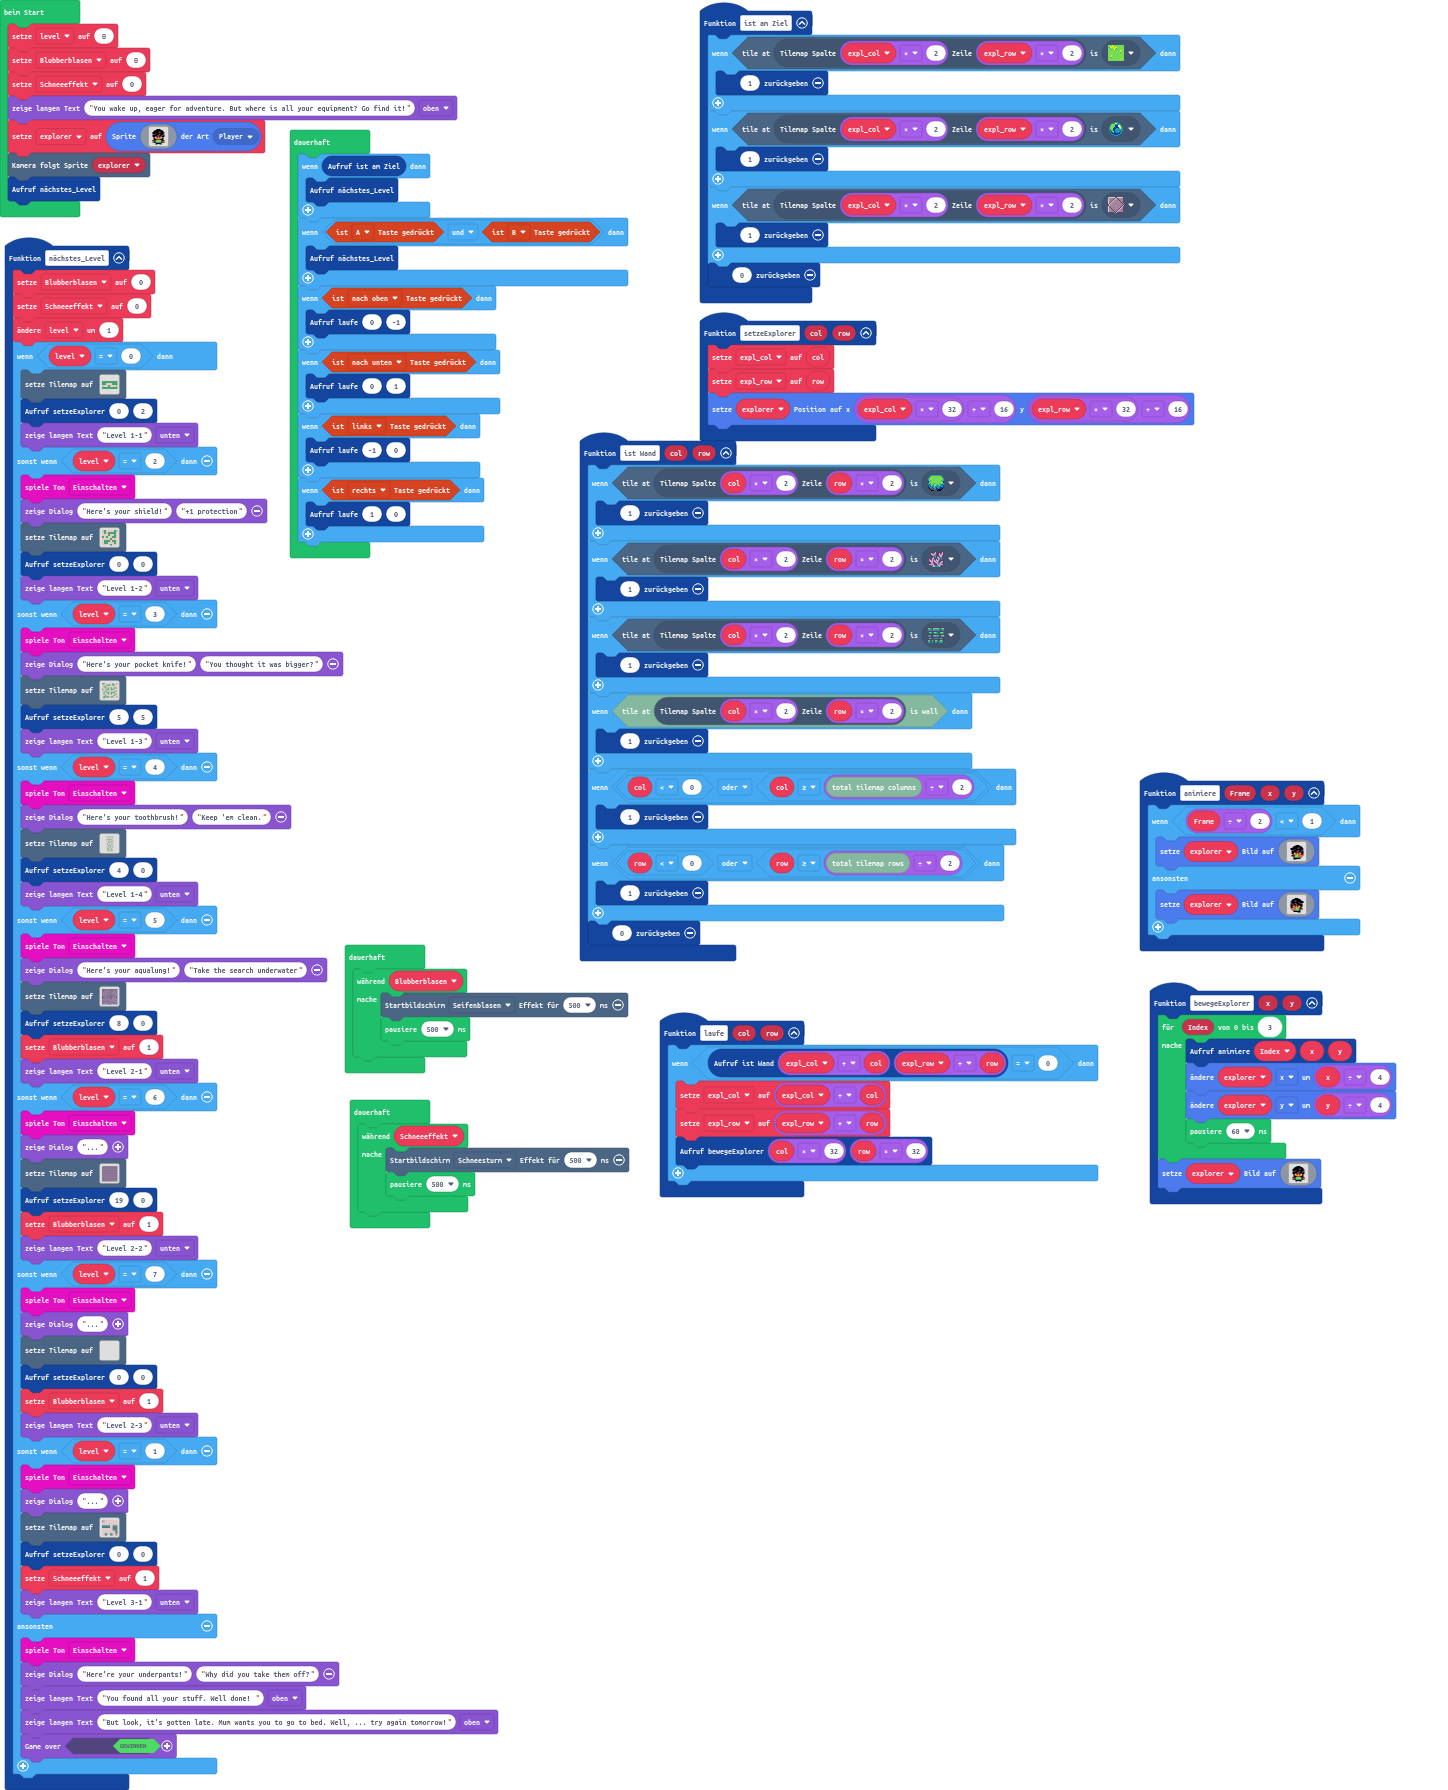
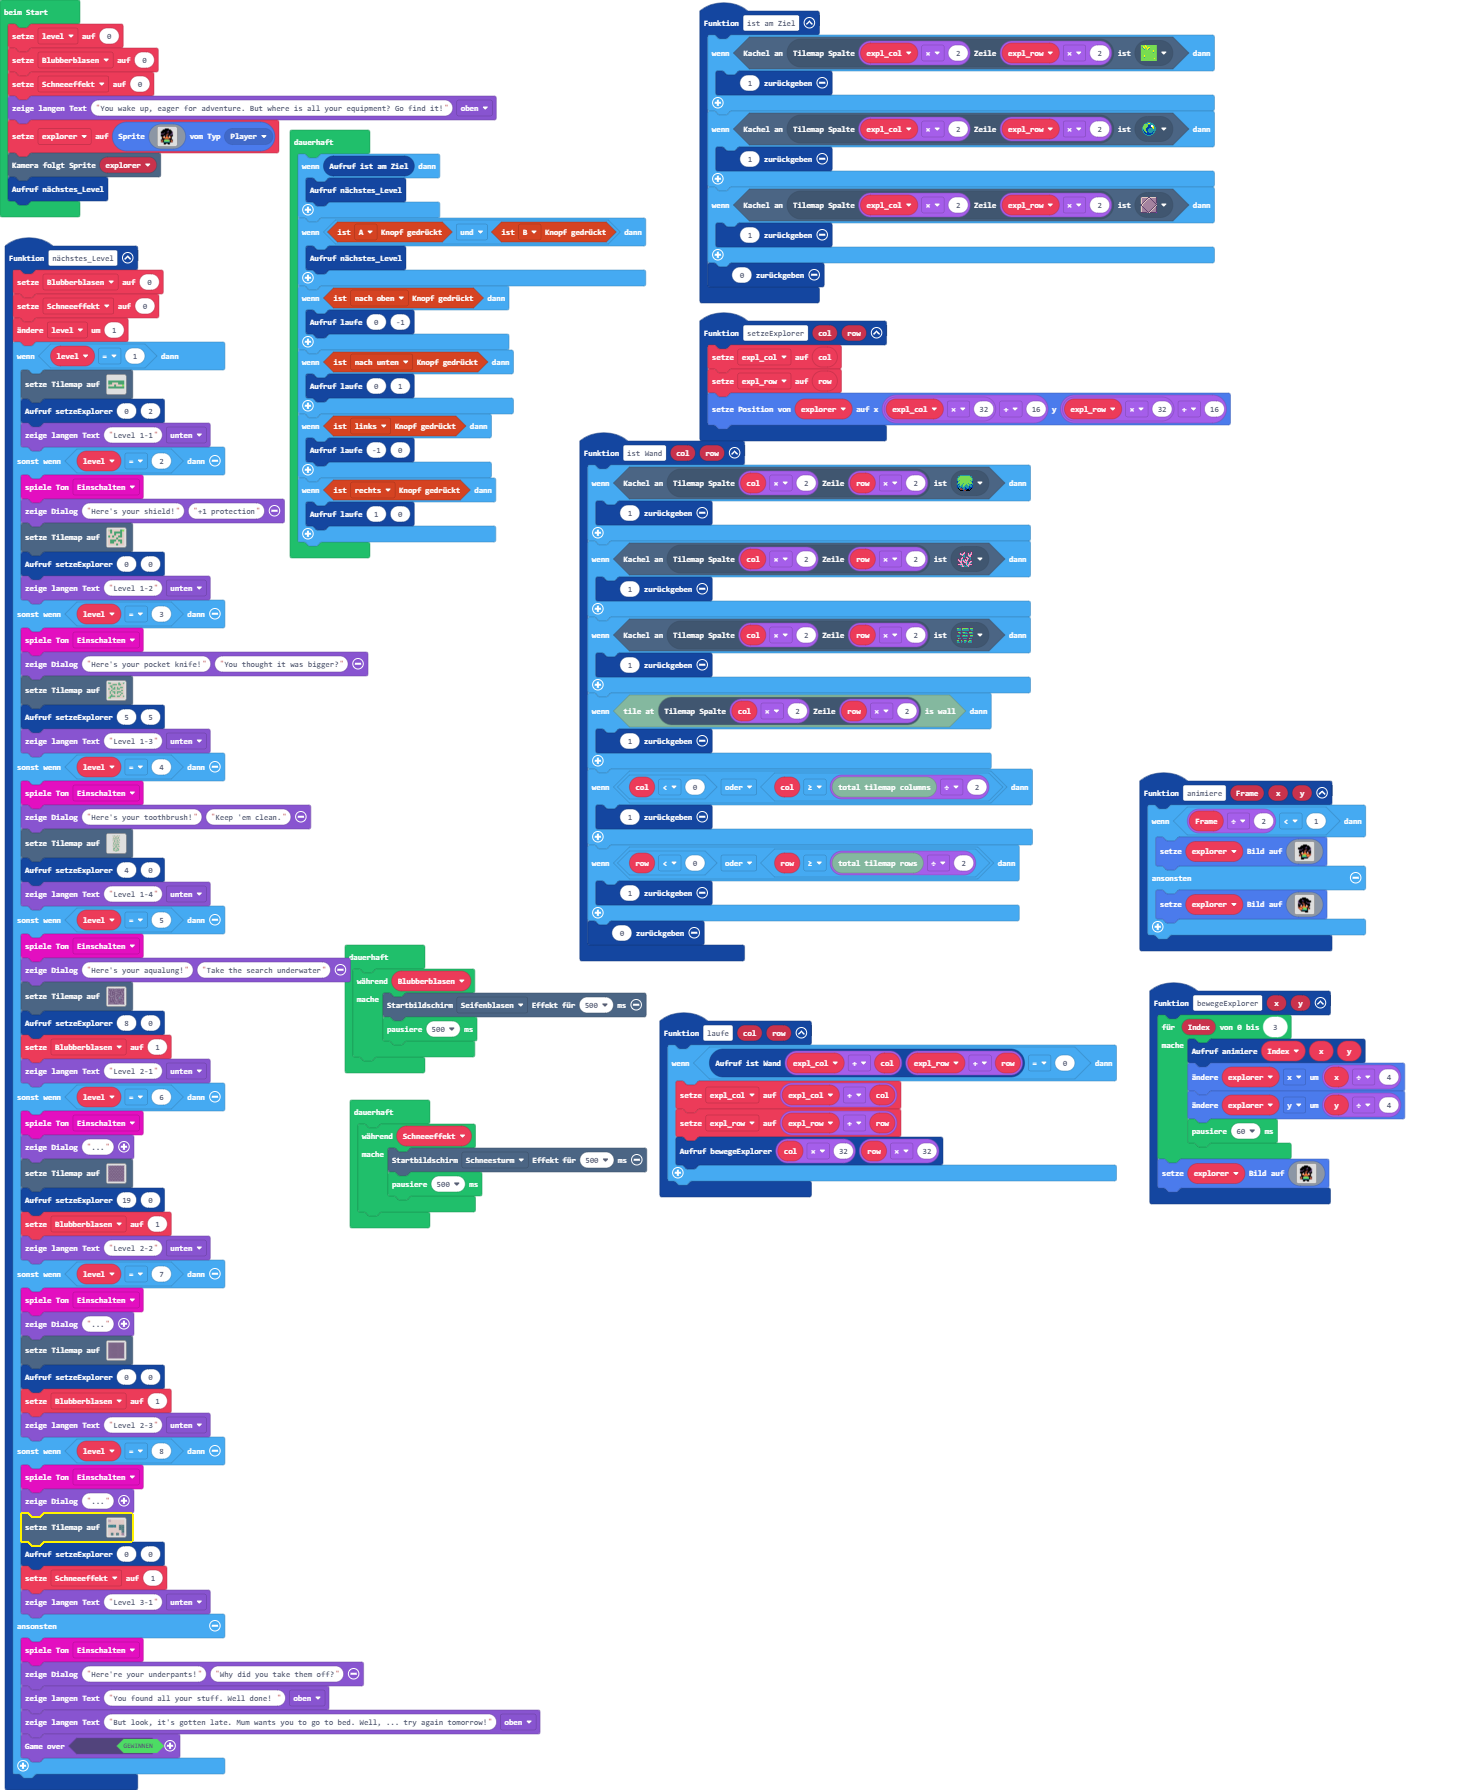
Completed level 2-3

diff --git a/tilemap.g.ts b/tilemap.g.ts
@@ -227,6 +227,78 @@ namespace myTiles {
 . . . . . . . . . . . . . . . . 
 . . . . . . . . . . . . . . . . 
 `, [myTiles.transparency16], TileScale.Sixteen);
+            case "Level3":
+            case "Level2":return tiles.createTilemap(hex`3200320002030101010101010101010101010101010101010101010101010101010101010101010101010101010101010101010101010405010101010101010101010101010101010101010101010101010101010101010101010101010101010101010101010101010101010101010101010101010101010101010101010101010101010101010101010101010101010101010101010101010101010101010101010101010101010101010101010101010101010101010101010101010101010101010101010101010101010101010101010101010101010101010101010101010101010101010101010101010101010101010101010101010101010101010101010101010101010101010101010101010101010101010101010101010101010101010101010101010101010101010101010101010101010101010101010101010101010101010101010101010101010101010101010101010101010101010101010101010101010101010101010101010101010101010101010101010101010101010101010101010101010101010101010101010101010101010101010101010101010101010101010101010101010101010101010101010101010101010101010101010101010101010101010101010101010101010101010101010101010101010101010101010101010101010101010101010101010101010101010101010101010101010101010101010101010101010101010101010101010101010101010101010101010101010101010101010101010101010101010101010101010101010101010101010101010101010101010101010101010101010101010101010101010101010101010101010101010101010101010101010101010101010101010101010101010101010101010101010101010101010101010101010101010101010101010101010101010101010101010101010101010101010101010101010101010101010101010101010101010101010101010101010101010101010101010101010101010101010101010101010101010101010101010101010101010101010101010101010101010101010101010101010101010101010101010101010101010101010101010101010101010101010101010101010101010101010101010101010101010101010101010101010101010101010101010101010101010101010101010101010101010101010101010101010101010101010101010101010101010101010101010101010101010101010101010101010101010101010101010101010101010101010101010101010101010101010101010101010101010101010101010101010101010101010101010101010101010101010101010101010101010101010101010101010101010101010101010101010101010101010101010101010101010101010101010101010101010101010101010101010101010101010101010101010101010101010101010101010101010101010101010101010101010101010101010101010101010101010101010101010101010101010101010101010101010101010101010101010101010101010101010101010101010101010101010101010101010101010101010101010101010101010101010101010101010101010101010101010101010101010101010101010101010101010101010101010101010101010101010101010101010101010101010101010101010101010101010101010101010101010101010101010101010101010101010101010101010101010101010101010101010101010101010101010101010101010101010101010101010101010101010101010101010101010101010101010101010101010101010101010101010101010101010101010101010101010101010101010101010101010101010101010101010101010101010101010101010101010101010101010101010101010101010101010101010101010101010101010101010101010101010101010101010101010101010101010101010101010101010101010101010101010101010101010101010101010101010101010101010101010101010101010101010101010101010101010101010101010101010101010101010101010101010101010101010101010101010101010101010101010101010101010101010101010101010101010101010101010101010101010101010101010101010101010101010101010101010101010101010101010101010101010101010101010101010101010101010101010101010101010101010101010101010101010101010101010101010101010101010101010101010101010101010101010101010101010101010101010101010101010101010101010101010101010101010101010101010101010101010101010101010101010101010101010101010101010101010101010101010101010101010101010101010101010101010101010101010101010101010101010101010101010101010101010101010101010101010101010101010101010101010101010101010101010101010101010101010101010101010101010101010101010101010101010101010101010101010101010101010101010101010101010101010101010101010101010101010101010101010101010101010101010101010101010101010101010101010101010101010606010101010101010101010101010101010101010101010101010101010101010101010101010101010101010101010101060601010101010101010101010101010101010101010101010101010101010101010101010101010101010101010101010101010101010101010101010101010101010101010101010101010101010101010101010101010101010101010101010101010101010101010101010101010101010101010101010101010101010101010101010101010101010101010101010101010101010101010101010101010101010101010101010101010101010101010101010101010101010101010101010101010101010101010101010101010101010101010101010101010101010101010101010101010101010101010101010101010101010101010101010101010101010101010101010101010101010101010101010101010101010101010101010101010101010101010101010101010101010101010101010101010101010101010101010101010101010101010101010101010101010101010101010101010101010101010101010101010101010101010101010101010101010101010101010101010101010101010101010101010101010101010101010101010101010101010101010101010101010101010101010101010101010101010101010101010101010101010101010101010101010101010101010101010101010101010101010101010101010101010101010101010101010101010101`, img`
+..................................................
+..................................................
+..................................................
+..................................................
+..................................................
+..................................................
+..................................................
+..................................................
+..................................................
+..................................................
+..................................................
+..................................................
+..................................................
+..................................................
+..................................................
+..................................................
+..................................................
+..................................................
+..................................................
+..................................................
+..................................................
+..................................................
+..................................................
+..................................................
+..................................................
+..................................................
+..................................................
+..................................................
+..................................................
+..................................................
+..................................................
+..................................................
+..................................................
+..................................................
+..................................................
+..................................................
+..............................................2222
+..............................................2222
+............................................22..22
+............................................22..22
+............................................22....
+............................................22....
+............................................2222..
+............................................2222..
+............................................22....
+............................................22....
+............................................22..22
+............................................22..22
+..................................................
+..................................................
+`, [myTiles.transparency16,sprites.dungeon.darkGroundCenter,sprites.dungeon.darkGroundNorthWest0,sprites.dungeon.darkGroundNorthEast0,sprites.dungeon.darkGroundSouthWest0,sprites.dungeon.darkGroundSouthEast0,sprites.dungeon.collectibleBlueCrystal], TileScale.Sixteen);
+            case "Level4":
+            case "Level4":return tiles.createTilemap(hex`1000100000000000000000000000000000000000000000000000000000000000000000000000000000000000000000000000000000000000000000000000000000000000000000000000000000000000000000000000000000000000000000000000000000000000000000000000000000000000000000000000000000000000000000000000000000000000000000000000000000000000000000000000000000000000000000000000000000000000000000000000000000000000000000000000000000000000000000000000000000000000000000000000000000000000000000000000000000000000000000000000000000000000000000000000000000000000`, img`
+. . . . . . . . . . . . . . . . 
+. . . . . . . . . . . . . . . . 
+. . . . . . . . . . . . . . . . 
+. . . . . . . . . . . . . . . . 
+. . . . . . . . . . . . . . . . 
+. . . . . . . . . . . . . . . . 
+. . . . . . . . . . . . . . . . 
+. . . . . . . . . . . . . . . . 
+. . . . . . . . . . . . . . . . 
+. . . . . . . . . . . . . . . . 
+. . . . . . . . . . . . . . . . 
+. . . . . . . . . . . . . . . . 
+. . . . . . . . . . . . . . . . 
+. . . . . . . . . . . . . . . . 
+. . . . . . . . . . . . . . . . 
+. . . . . . . . . . . . . . . . 
+`, [myTiles.transparency16], TileScale.Sixteen);
         }
         return null;
     })

diff --git a/main.ts b/main.ts
@@ -44,7 +44,7 @@ function nächstes_Level () {
     Blubberblasen = 0
     Schneeeffekt = 0
     level += 1
-    if (level == 0) {
+    if (level == 1) {
         tiles.setTilemap(tilemap`Level0`)
         setzeExplorer(0, 2)
         game.showLongText("Level 1-1", DialogLayout.Bottom)
@@ -83,11 +83,11 @@ function nächstes_Level () {
     } else if (level == 7) {
         music.powerUp.play()
         game.splash("...")
-        tiles.setTilemap(tilemap`Level23`)
+        tiles.setTilemap(tilemap`Level3`)
         setzeExplorer(0, 0)
         Blubberblasen = 1
         game.showLongText("Level 2-3", DialogLayout.Bottom)
-    } else if (level == 1) {
+    } else if (level == 8) {
         music.powerUp.play()
         game.splash("...")
         tiles.setTilemap(tilemap`Level31`)

diff --git a/images.g.ts b/images.g.ts
@@ -60,24 +60,6 @@ e 4 4 4 e 7 7 7 b f e f .
 . . . f f f f f f f . . . 
 . . . . . . . f f f . . . 
 `;
-            case "image1":return img`
-. . . . f f f f . . . . . 
-. . f f f f f f f f . . . 
-. f f f f f f c f f f . . 
-f f f f f f c c f f f c . 
-f f f c f f f f f f f c . 
-c c c f f f e e f f c c . 
-f f f f f e e f f c c f . 
-f f f b f e e f b f f f . 
-. f 4 1 f 4 4 f 1 4 f . . 
-. f e 4 4 4 4 4 4 e f . . 
-. f f f e e e e f f f . . 
-f e f b 7 7 7 7 b f e f . 
-e 4 f 7 7 7 7 7 7 f 4 e . 
-e e f 6 6 6 6 6 6 f e e . 
-. . . f f f f f f . . . . 
-. . . f f . . f f . . . . 
-`;
         }
         return null;
     })
